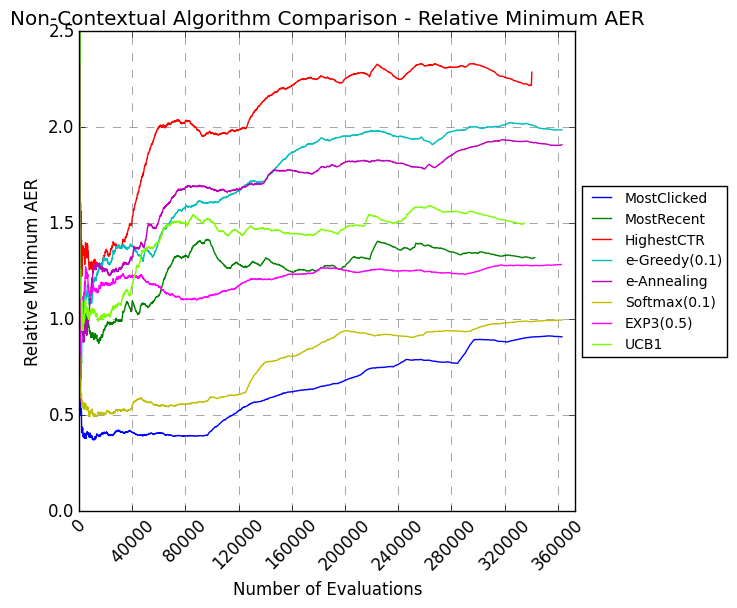
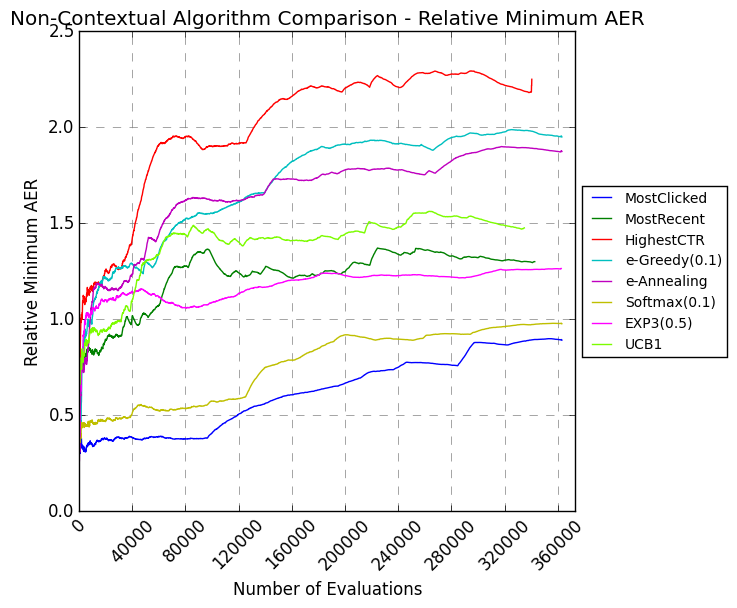
Comparing max/mins to mean randomized

diff --git a/create_min_aer_plot.py b/create_min_aer_plot.py
@@ -10,6 +10,7 @@ import numpy as np
 majorFormatter = FormatStrFormatter('%d')
 
 data = np.genfromtxt('banditMinAERSummary.csv', delimiter=',', names = True)
+data2 = np.genfromtxt('banditMeanAERSummary.csv', delimiter=',', names = True)
 
 fig = plt.figure()
 ax = fig.add_subplot(111)
@@ -19,14 +20,14 @@ ax.set_xlabel('Number of Evaluations')
 ax.set_ylabel('Relative Minimum AER')
 
 #ax.plot(data['t'],data['Random'], label='Random')
-ax.plot(data['t'],data['MostClicked']/data['Random'], label='MostClicked')
-ax.plot(data['t'],data['MostRecent']/data['Random'], label='MostRecent')
-ax.plot(data['t'],data['MostCTR']/data['Random'], label='HighestCTR')
-ax.plot(data['t'],data['eGreedy01']/data['Random'], label='e-Greedy(0.1)')
-ax.plot(data['t'],data['eAnnealing']/data['Random'], label='e-Annealing')
-ax.plot(data['t'],data['Softmax01']/data['Random'], label='Softmax(0.1)')
-ax.plot(data['t'],data['EXP305']/data['Random'], label='EXP3(0.5)', color='fuchsia')
-ax.plot(data['t'],data['UCB1']/data['Random'], label='UCB1', color='lawngreen')
+ax.plot(data['t'],data['MostClicked']/data2['Random'], label='MostClicked')
+ax.plot(data['t'],data['MostRecent']/data2['Random'], label='MostRecent')
+ax.plot(data['t'],data['MostCTR']/data2['Random'], label='HighestCTR')
+ax.plot(data['t'],data['eGreedy01']/data2['Random'], label='e-Greedy(0.1)')
+ax.plot(data['t'],data['eAnnealing']/data2['Random'], label='e-Annealing')
+ax.plot(data['t'],data['Softmax01']/data2['Random'], label='Softmax(0.1)')
+ax.plot(data['t'],data['EXP305']/data2['Random'], label='EXP3(0.5)', color='fuchsia')
+ax.plot(data['t'],data['UCB1']/data2['Random'], label='UCB1', color='lawngreen')
 
 box = ax.get_position()
 ax.set_position([box.x0, box.y0, box.width * 0.8, box.height])

diff --git a/create_max_aer_plot.py b/create_max_aer_plot.py
@@ -10,6 +10,7 @@ import numpy as np
 majorFormatter = FormatStrFormatter('%d')
 
 data = np.genfromtxt('banditMaxAERSummary.csv', delimiter=',', names = True)
+data2 = np.genfromtxt('banditMeanAERSummary.csv', delimiter=',', names = True)
 
 fig = plt.figure()
 ax = fig.add_subplot(111)
@@ -20,14 +21,14 @@ ax.set_xlabel('Number of Evaluations')
 ax.set_ylabel('Relative Maximum AER')
 
 #ax.plot(data['t'],data['Random'], label='Random')
-ax.plot(data['t'],data['MostClicked']/data['Random'], label='MostClicked')
-ax.plot(data['t'],data['MostRecent']/data['Random'], label='MostRecent')
-ax.plot(data['t'],data['MostCTR']/data['Random'], label='HighestCTR')
-ax.plot(data['t'],data['eGreedy01']/data['Random'], label='e-Greedy(0.1)')
-ax.plot(data['t'],data['eAnnealing']/data['Random'], label='e-Annealing')
-ax.plot(data['t'],data['Softmax01']/data['Random'], label='Softmax(0.1)')
-ax.plot(data['t'],data['EXP305']/data['Random'], label='EXP3(0.5)', color='fuchsia')
-ax.plot(data['t'],data['UCB1']/data['Random'], label='UCB1', color='lawngreen')
+ax.plot(data['t'],data['MostClicked']/data2['Random'], label='MostClicked')
+ax.plot(data['t'],data['MostRecent']/data2['Random'], label='MostRecent')
+ax.plot(data['t'],data['MostCTR']/data2['Random'], label='HighestCTR')
+ax.plot(data['t'],data['eGreedy01']/data2['Random'], label='e-Greedy(0.1)')
+ax.plot(data['t'],data['eAnnealing']/data2['Random'], label='e-Annealing')
+ax.plot(data['t'],data['Softmax01']/data2['Random'], label='Softmax(0.1)')
+ax.plot(data['t'],data['EXP305']/data2['Random'], label='EXP3(0.5)', color='fuchsia')
+ax.plot(data['t'],data['UCB1']/data2['Random'], label='UCB1', color='lawngreen')
 
 
 box = ax.get_position()

diff --git a/create_max_aer_plot_ensemble.py b/create_max_aer_plot_ensemble.py
@@ -10,6 +10,7 @@ import numpy as np
 majorFormatter = FormatStrFormatter('%d')
 
 data = np.genfromtxt('banditMaxAERSummary.csv', delimiter=',', names = True)
+data2 = np.genfromtxt('banditMeanAERSummary.csv', delimiter=',', names = True)
 
 fig = plt.figure()
 ax = fig.add_subplot(111)
@@ -19,11 +20,11 @@ ax.set_title("Ensemble Bandit Algorithm Comparison - Relative Maximum AER")
 ax.set_xlabel('Number of Evaluations')
 ax.set_ylabel('Relative Maximum AER')
 
-ax.plot(data['t'],data['EnsembleRandom']/data['Random'], label='EnsRandom')
-ax.plot(data['t'],data['EnsembleRandomUpdateAll']/data['Random'], label='EnsRandomUpdateAll')
-ax.plot(data['t'],data['EnsembleEAnnealingUpdateAll']/data['Random'], label='EnsEAnnUpdateAll')
-ax.plot(data['t'],data['EnsembleBayesianUpdateAll']/data['Random'], label='EnsBayesianUpdateAll')
-ax.plot(data['t'],data['EnsembleBinomialUCIUpdateAll']/data['Random'], label='EnsBinomialUCIUpdateAll')
+ax.plot(data['t'],data['EnsembleRandom']/data2['Random'], label='EnsRandom')
+ax.plot(data['t'],data['EnsembleRandomUpdateAll']/data2['Random'], label='EnsRandomUpdateAll')
+ax.plot(data['t'],data['EnsembleEAnnealingUpdateAll']/data2['Random'], label='EnsEAnnUpdateAll')
+ax.plot(data['t'],data['EnsembleBayesianUpdateAll']/data2['Random'], label='EnsBayesianUpdateAll')
+ax.plot(data['t'],data['EnsembleBinomialUCIUpdateAll']/data2['Random'], label='EnsBinomialUCIUpdateAll')
 
 box = ax.get_position()
 ax.set_position([box.x0, box.y0, box.width * 0.8, box.height])

diff --git a/create_min_aer_plot_ensemble.py b/create_min_aer_plot_ensemble.py
@@ -10,6 +10,7 @@ import numpy as np
 majorFormatter = FormatStrFormatter('%d')
 
 data = np.genfromtxt('banditMinAERSummary.csv', delimiter=',', names = True)
+data2 = np.genfromtxt('banditMeanAERSummary.csv', delimiter=',', names = True)
 
 fig = plt.figure()
 ax = fig.add_subplot(111)
@@ -18,11 +19,11 @@ ax.set_title("Ensemble Bandit Algorithm Comparison - Relative Minimum AER")
 ax.set_xlabel('Number of Evaluations')
 ax.set_ylabel('Relative Minimum AER')
 
-ax.plot(data['t'],data['EnsembleRandom']/data['Random'], label='EnsRandom')
-ax.plot(data['t'],data['EnsembleRandomUpdateAll']/data['Random'], label='EnsRandomUpdateAll')
-ax.plot(data['t'],data['EnsembleEAnnealingUpdateAll']/data['Random'], label='EnsEAnnUpdateAll')
-ax.plot(data['t'],data['EnsembleBayesianUpdateAll']/data['Random'], label='EnsBayesianUpdateAll')
-ax.plot(data['t'],data['EnsembleBinomialUCIUpdateAll']/data['Random'], label='EnsBinomialUCIUpdateAll')
+ax.plot(data['t'],data['EnsembleRandom']/data2['Random'], label='EnsRandom')
+ax.plot(data['t'],data['EnsembleRandomUpdateAll']/data2['Random'], label='EnsRandomUpdateAll')
+ax.plot(data['t'],data['EnsembleEAnnealingUpdateAll']/data2['Random'], label='EnsEAnnUpdateAll')
+ax.plot(data['t'],data['EnsembleBayesianUpdateAll']/data2['Random'], label='EnsBayesianUpdateAll')
+ax.plot(data['t'],data['EnsembleBinomialUCIUpdateAll']/data2['Random'], label='EnsBinomialUCIUpdateAll')
 
 box = ax.get_position()
 ax.set_position([box.x0, box.y0, box.width * 0.8, box.height])

diff --git a/create_max_aer_plot_contextual.py b/create_max_aer_plot_contextual.py
@@ -10,6 +10,7 @@ import numpy as np
 majorFormatter = FormatStrFormatter('%d')
 
 data = np.genfromtxt('banditMaxAERSummary.csv', delimiter=',', names = True)
+data2 = np.genfromtxt('banditMeanAERSummary.csv', delimiter=',', names = True)
 
 fig = plt.figure()
 ax = fig.add_subplot(111)
@@ -20,11 +21,11 @@ ax.set_xlabel('Number of Evaluations')
 ax.set_ylabel('Relative Maximum AER')
 
 #ax.plot(data['t'],data['Random'], label='Random')
-ax.plot(data['t'],data['eGreedyContextual01']/data['Random'], label='eGreedy')
-ax.plot(data['t'],data['eAnnealingContextual']/data['Random'], label='eAnnealing')
-ax.plot(data['t'],data['SoftmaxContextual01']/data['Random'], label='Softmax(0.1)')
-ax.plot(data['t'],data['LinUCB01']/data['Random'], label='LinUCB')
-ax.plot(data['t'],data['NaiveBayesContextual']/data['Random'], label='NaiveBayes')
+ax.plot(data['t'],data['eGreedyContextual01']/data2['Random'], label='eGreedy')
+ax.plot(data['t'],data['eAnnealingContextual']/data2['Random'], label='eAnnealing')
+ax.plot(data['t'],data['SoftmaxContextual01']/data2['Random'], label='Softmax(0.1)')
+ax.plot(data['t'],data['LinUCB01']/data2['Random'], label='LinUCB')
+ax.plot(data['t'],data['NaiveBayesContextual']/data2['Random'], label='NaiveBayes')
 
 box = ax.get_position()
 ax.set_position([box.x0, box.y0, box.width * 0.8, box.height])

diff --git a/create_min_aer_plot_contextual.py b/create_min_aer_plot_contextual.py
@@ -10,6 +10,7 @@ import numpy as np
 majorFormatter = FormatStrFormatter('%d')
 
 data = np.genfromtxt('banditMinAERSummary.csv', delimiter=',', names = True)
+data2 = np.genfromtxt('banditMeanAERSummary.csv', delimiter=',', names = True)
 
 fig = plt.figure()
 ax = fig.add_subplot(111)
@@ -19,11 +20,11 @@ ax.set_xlabel('Number of Evaluations')
 ax.set_ylabel('Relative Minimum AER')
 
 #ax.plot(data['t'],data['Random'], label='Random')
-ax.plot(data['t'],data['eGreedyContextual01']/data['Random'], label='eGreedy')
-ax.plot(data['t'],data['eAnnealingContextual']/data['Random'], label='eAnnealing')
-ax.plot(data['t'],data['SoftmaxContextual01']/data['Random'], label='Softmax(0.1)')
-ax.plot(data['t'],data['LinUCB01']/data['Random'], label='LinUCB')
-ax.plot(data['t'],data['NaiveBayesContextual']/data['Random'], label='NaiveBayes')
+ax.plot(data['t'],data['eGreedyContextual01']/data2['Random'], label='eGreedy')
+ax.plot(data['t'],data['eAnnealingContextual']/data2['Random'], label='eAnnealing')
+ax.plot(data['t'],data['SoftmaxContextual01']/data2['Random'], label='Softmax(0.1)')
+ax.plot(data['t'],data['LinUCB01']/data2['Random'], label='LinUCB')
+ax.plot(data['t'],data['NaiveBayesContextual']/data2['Random'], label='NaiveBayes')
 
 box = ax.get_position()
 ax.set_position([box.x0, box.y0, box.width * 0.8, box.height])
